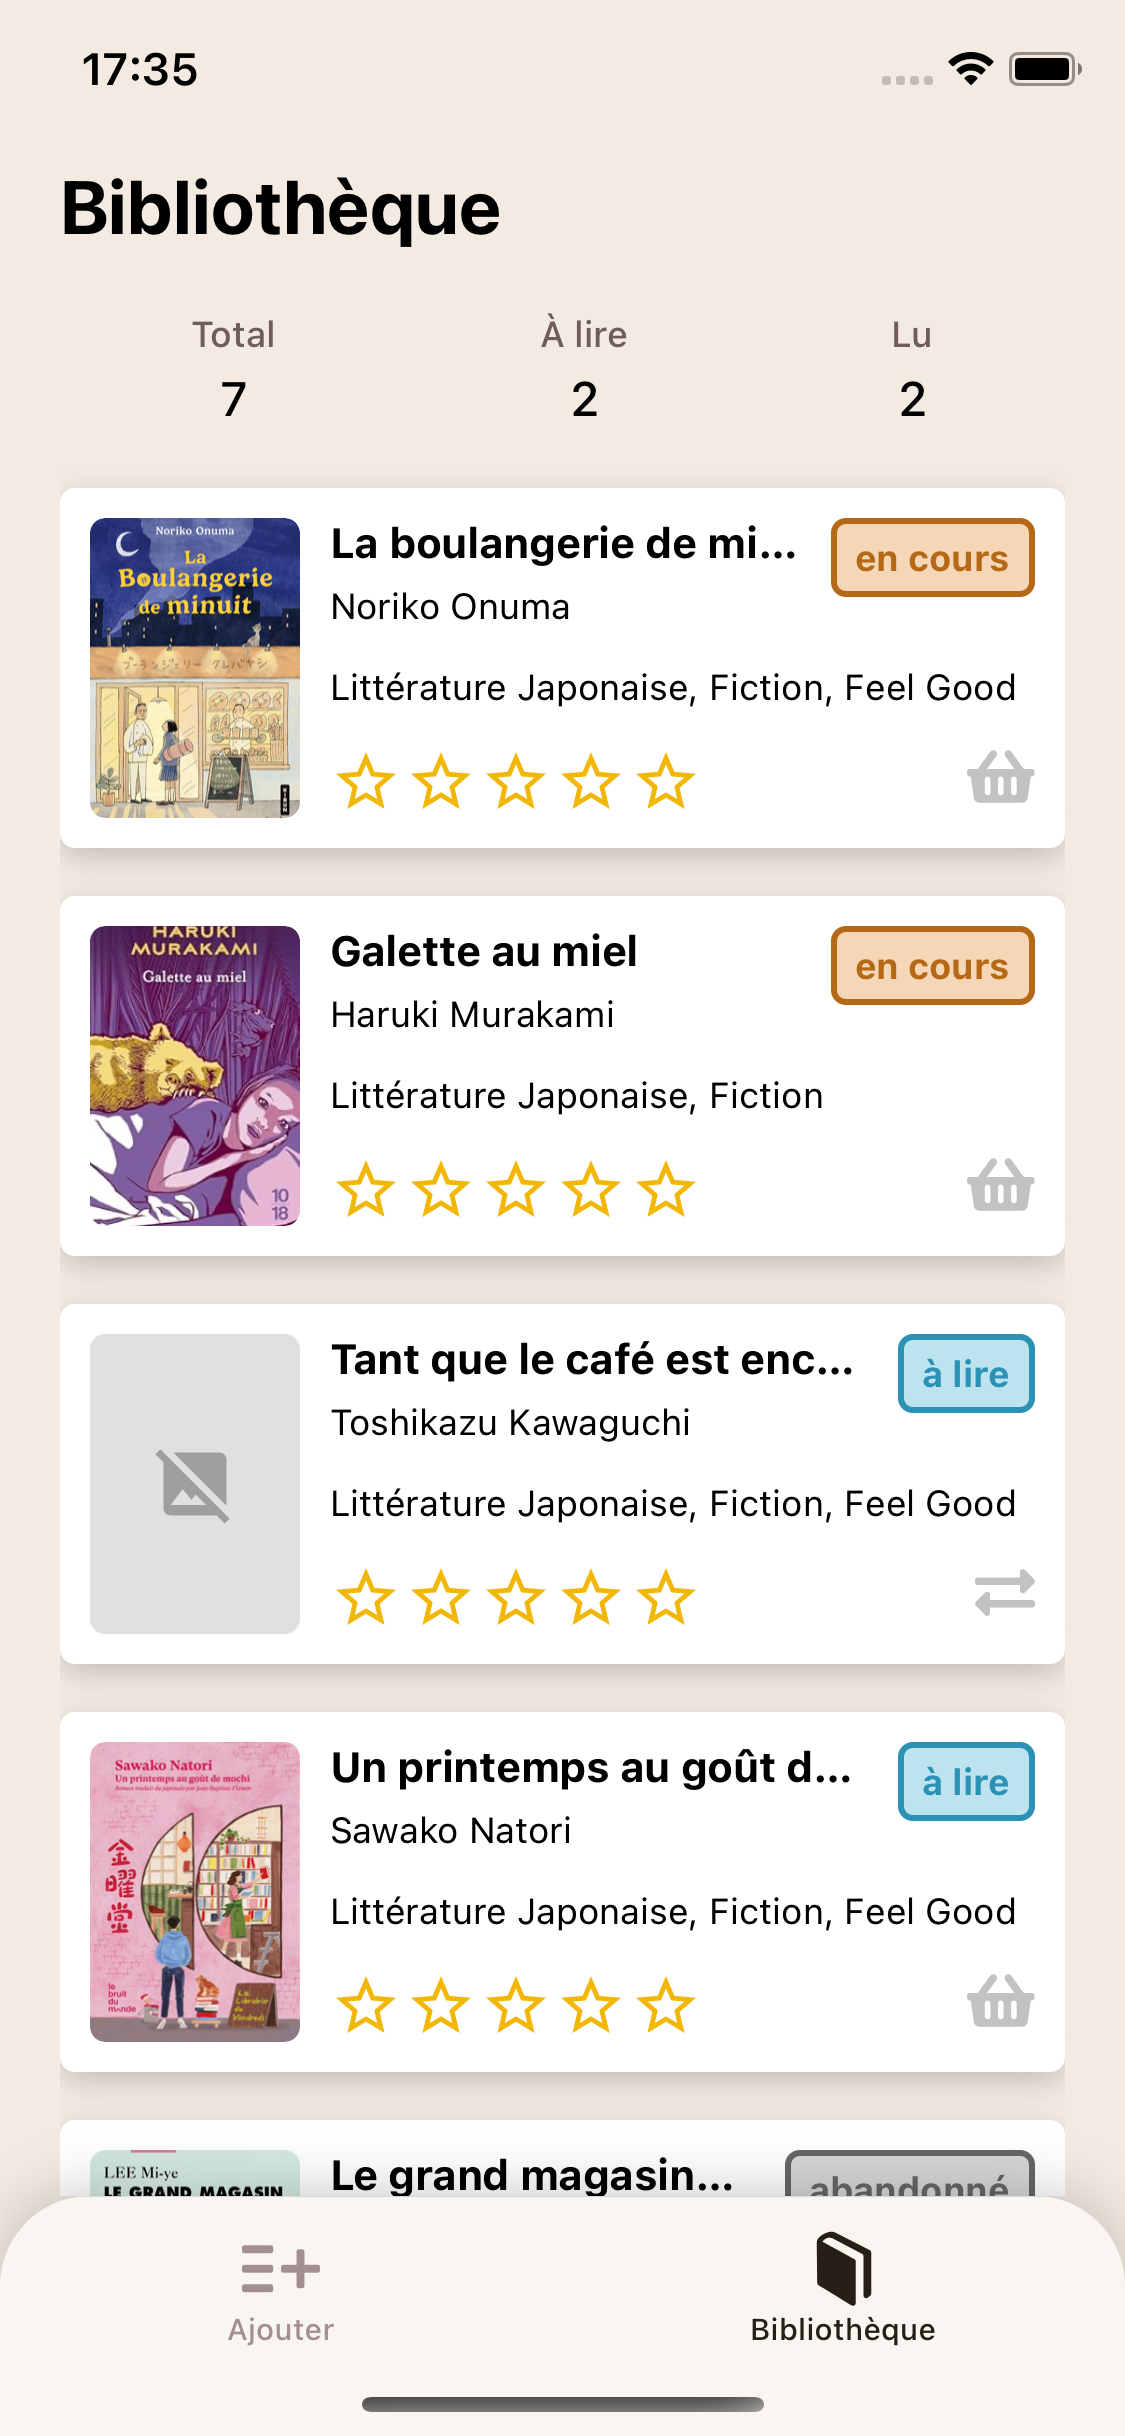
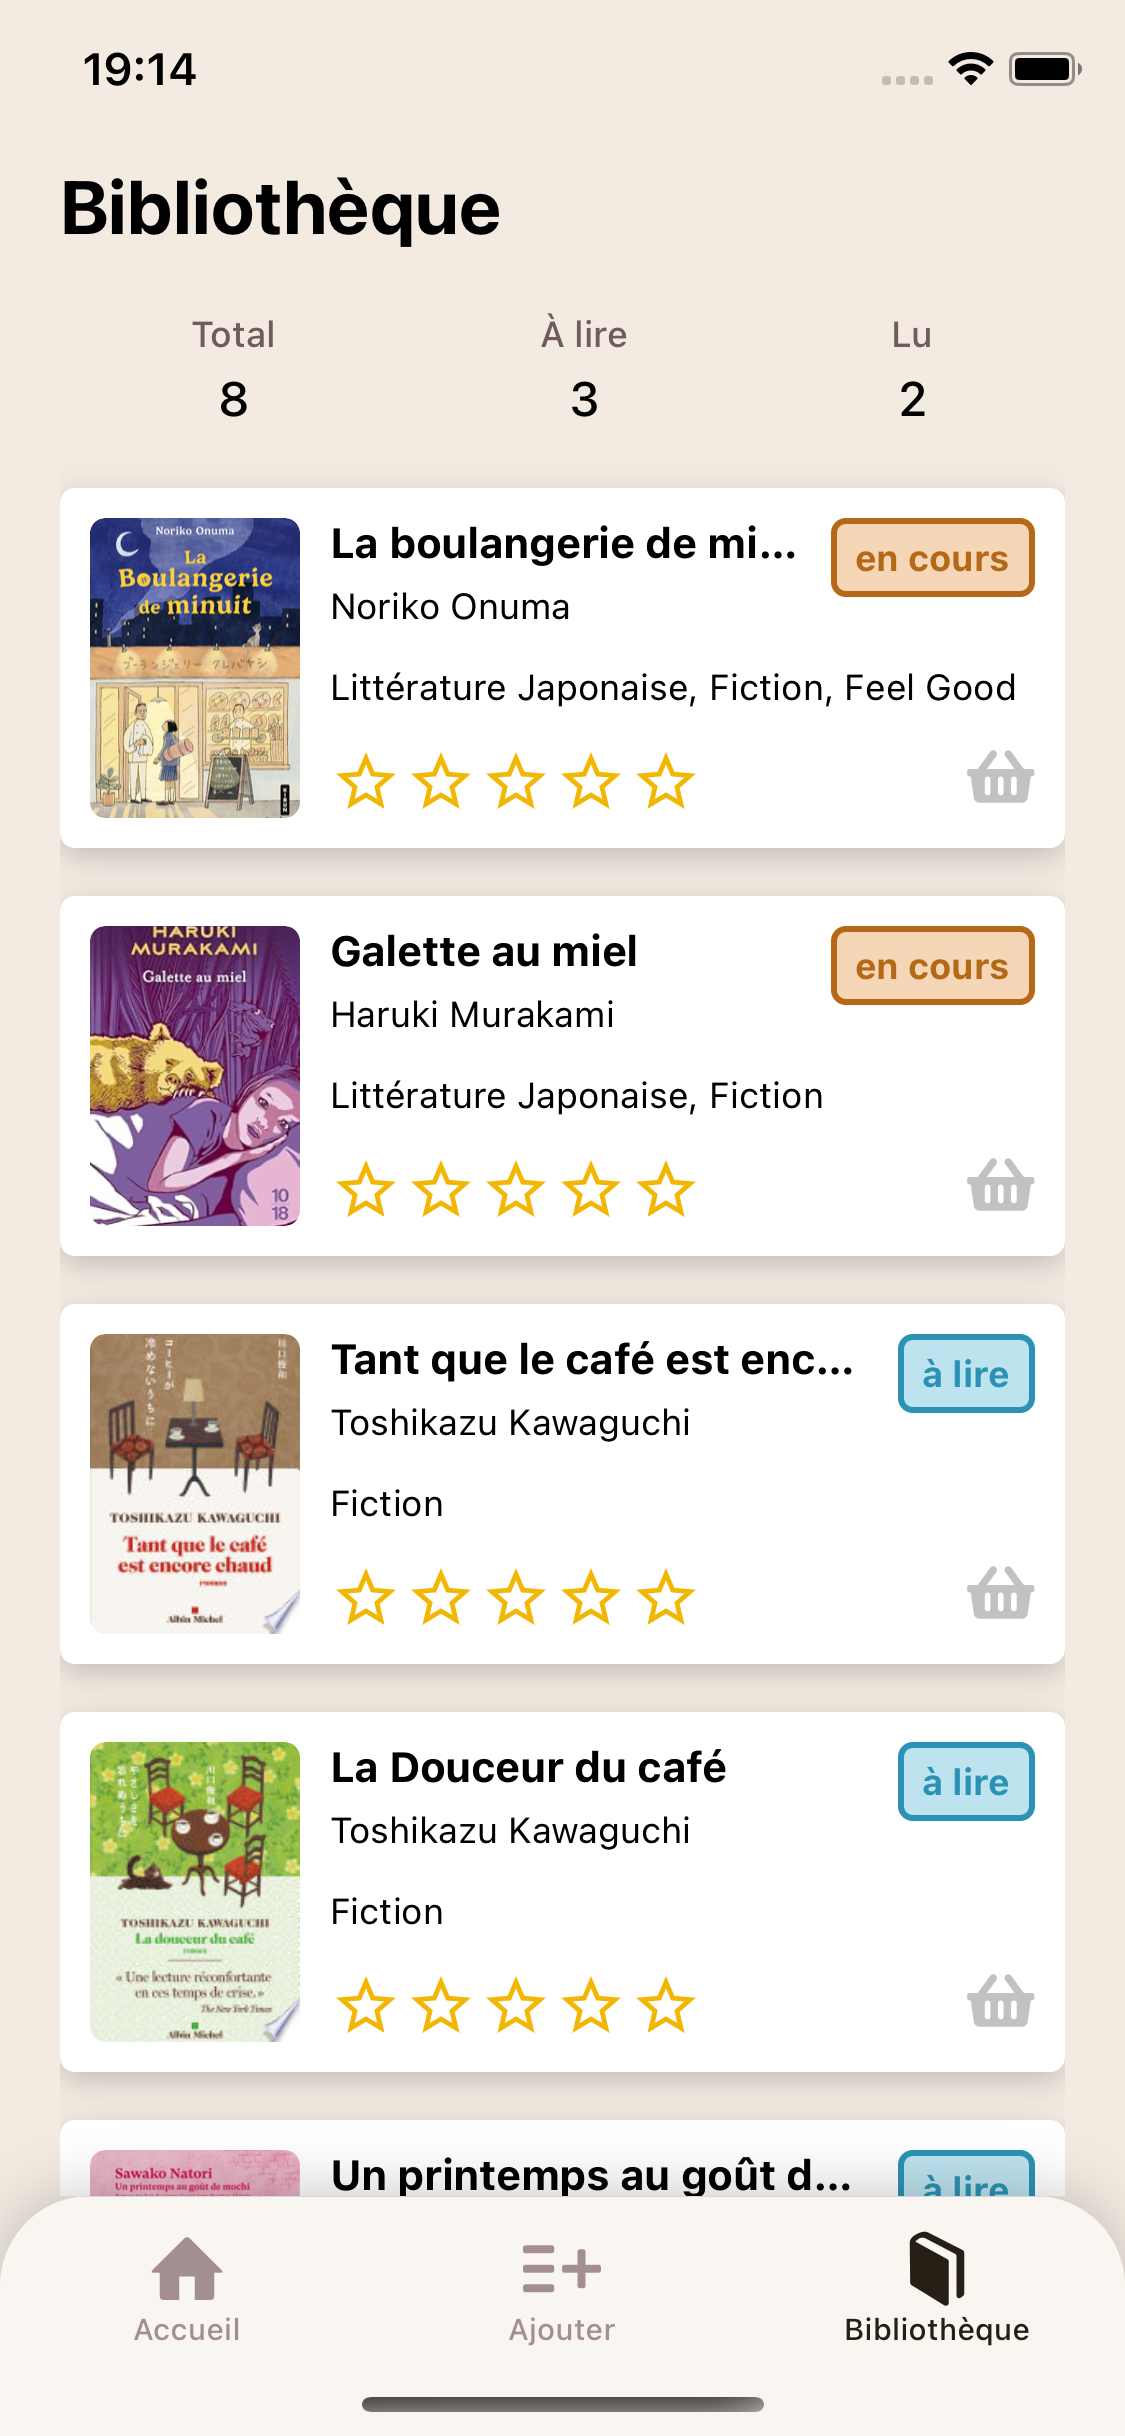
docs : mise à jour de l'aperçu de l'app dans le README

diff --git a/README.md b/README.md
@@ -23,9 +23,11 @@ L’application permet de constituer une bibliothèque personnelle de livres, su
 
 # Aperçu de l'application
 
-<img src="./assets/capture_ecran_bibliotheque.png" alt="Écran Bibliothèque" height="500" />
-<img src="./assets/capture_ecran_fiche_livre.png" alt="Fiche détail d'un livre" height="500" />
-<img src="./assets/capture_ecran_formulaire_ajout.png" alt="Formulaire d'ajout de livre" height="500" />
+<img src="./assets/capture_ecran_accueil.png" alt="Écran Accueil" height="350" />
+<img src="./assets/capture_ecran_ajouter.png" alt="Écran Ajouter" height="350" />
+<img src="./assets/capture_ecran_formulaire_ajout.png" alt="Formulaire d'ajout de livre" height="350" />
+<img src="./assets/capture_ecran_bibliotheque.png" alt="Écran Bibliothèque" height="350" />
+<img src="./assets/capture_ecran_fiche_livre.png" alt="Fiche détail d'un livre" height="350" />
 
 ---
 
@@ -155,13 +157,15 @@ Cette commande compile l'application et la lance sur le simulateur Android.
 
 ## Tester l'application sur iPhone (via Xcode)
 
-Première connexion au téléphone : 
+Première connexion au téléphone :
+
 1. Ouvrir le projet /ios dans Xcode (depuis un terminal positionné dans le dossier /yomi): `open ios/*.xcworkspace`.
 2. Dans Xcode, sélectionner un simulateur ou iPhone physique connecté à l'ordinateur via USB.
 3. Cliquer sur le bouton Run.
-L'application est alors compilée et installée directement sur l'iPhone.
+   L'application est alors compilée et installée directement sur l'iPhone.
 
-Remarques : 
+Remarques :
+
 - L'application fonctionnera sur l'iPhone uniquement si le serveur est actif (commande `npx expo start` ou `npx expo run:ios`), de la même façon que le simulateur.
 - L'ordinateur et le téléphone doivent être connecté au même réseau.
 - Le téléphone n'a pas besoin d'être branché à l'ordinateur à chaque utilisation, mais le processus (étapes 1 à 3) devra être réitéré à chaque ajout d'un module natif au projet (modification du dossier ios suite à la commande `npx expo prebuild`).
@@ -170,14 +174,16 @@ Remarques :
 
 Il est possible de générer un fichier APK pour installer l’application sur un appareil Android sans passer par le Play Store.
 
-Création du fichier d'installation : 
+Création du fichier d'installation :
+
 1. Installer Expo Application Services (EAS) : `npm install -g eas-cli`.
 2. Se connecter : `eas login`.
 3. Configurer le build : `eas build:configure`.
 4. Lancer la génération de l’APK : `eas build -p android --profile preview`.
 5. À la fin du build, un lien de téléchargement est fourni. Il permet de télécharger l'APK et d'installer directement sur un téléphone Android.
 
-Installation sur téléphone : 
+Installation sur téléphone :
+
 1. Copier le fichier sur le téléphone.
 2. Autoriser les sources inconnues si nécessaire.
 3. Ouvrir le fichier APK pour installer l’application.
